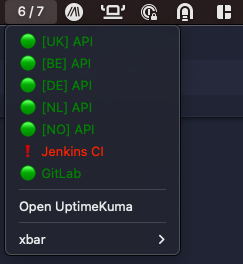
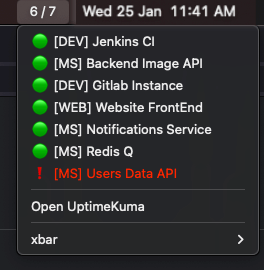
feat: New design for the script (#13)

Changed region(s): [[0.0, 0.0, 1.0, 0.9697]]

diff --git a/uptimekuma.30s.py b/uptimekuma.30s.py
@@ -1,7 +1,7 @@
 #!/usr/bin/python
 #
 # <xbar.title>UptimeKuma Monitor</xbar.title>
-# <xbar.version>v1.0</xbar.version>
+# <xbar.version>v1.1</xbar.version>
 # <xbar.author>mariogarridopt</xbar.author>
 # <xbar.author.github>mariogarridopt</xbar.author.github>
 # <xbar.desc>Show UptimeKuma status</xbar.desc>
@@ -37,16 +37,21 @@ try:
         
         if(beats[-1]['status'] == True):
             monitor_online = monitor_online + 1
-            text = "🟢 " + text + " color='green'"
+            text = "🟢 " + text
         else:
-            text = "❗ " + text + " color='red'"
-        monitor_list_string.append(text);
+            text = "❗ " + text + " color='#ff0000'"
+        monitor_list_string.append(text)
 
     ## PRINT DATA
-    print(monitor_online, '/', monitor_total)
+    if monitor_online == monitor_total:
+        print('🌍')
+    else:
+        print(monitor_online, '/', monitor_total)
+    
     print('---')
     for monitors_text in monitor_list_string:
         print(monitors_text)
+        
     print('---')
     print("Open UptimeKuma | href='" + BASE_URL + "/dashboard'")
 except:
